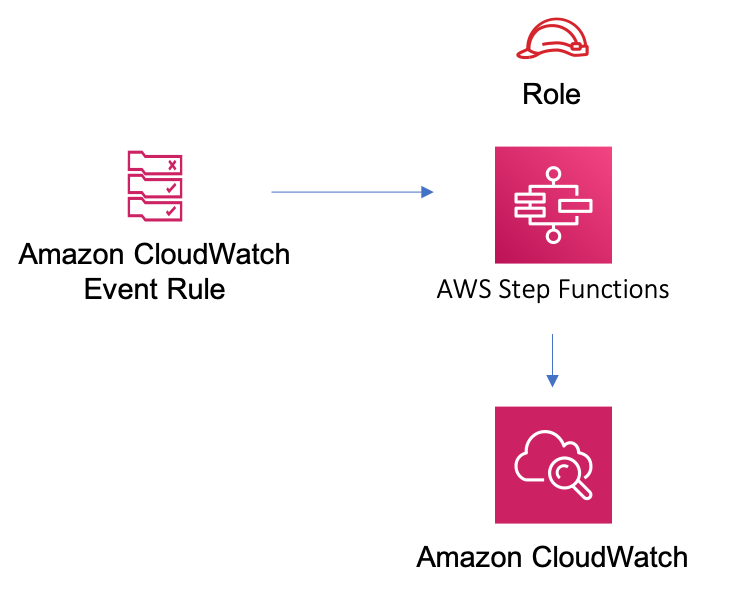
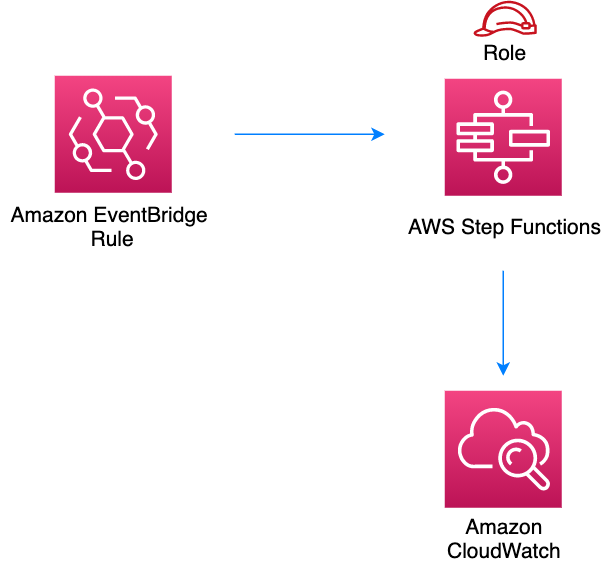
Deleted dependency lines and updated architecture diagram

diff --git a/source/patterns/@aws-solutions-constructs/aws-eventbridge-kinesisfirehose-s3/README.md b/source/patterns/@aws-solutions-constructs/aws-eventbridge-kinesisfirehose-s3/README.md
@@ -22,7 +22,7 @@
 |![Typescript Logo](https://docs.aws.amazon.com/cdk/api/latest/img/typescript32.png) Typescript|`@aws-solutions-constructs/aws-eventbridge-kinesisfirehose-s3`|
 |![Java Logo](https://docs.aws.amazon.com/cdk/api/latest/img/java32.png) Java|`software.amazon.awsconstructs.services.eventbridgekinesisfirehoses3`|
 
-This AWS Solutions Construct implements an Amazon CloudWatch Events rule to send data to an Amazon Kinesis Data Firehose delivery stream connected to an Amazon S3 bucket.
+This AWS Solutions Construct implements an Amazon EventBridge Rule to send data to an Amazon Kinesis Data Firehose delivery stream connected to an Amazon S3 bucket.
 
 Here is a minimal deployable pattern definition in Typescript:
 
@@ -31,9 +31,9 @@ import * as cdk from '@aws-cdk/core';
 import { EventbridgeToKinesisFirehoseToS3, EventbridgeToKinesisFirehoseToS3Props } from '@aws-solutions-constructs/aws-eventbridge-kinesisfirehose-s3';
 
 const EventbridgeToKinesisFirehoseToS3Props: EventbridgeToKinesisFirehoseToS3Props = {
-    eventRuleProps: {
-    schedule: events.Schedule.rate(cdk.Duration.minutes(5))
-    }
+  eventRuleProps: {
+  schedule: events.Schedule.rate(cdk.Duration.minutes(5))
+  }
 };
 
 new EventbridgeToKinesisFirehoseToS3(this, 'test-eventbridge-firehose-s3', EventbridgeToKinesisFirehoseToS3Props);
@@ -78,8 +78,8 @@ _Parameters_
 
 Out of the box implementation of the Construct without any override will set the following defaults:
 
-### Amazon CloudWatch Events Rule
-* Configure least privilege access IAM role for Events Rule to publish to the Kinesis Firehose Delivery Stream.
+### Amazon EventBridge Rule
+* Configure least privilege access IAM role for Amazon EventBridge Rule to publish to the Kinesis Firehose Delivery Stream.
 
 ### Amazon Kinesis Firehose
 * Enable CloudWatch logging for Kinesis Firehose

diff --git a/source/patterns/@aws-solutions-constructs/aws-eventbridge-stepfunctions/README.md b/source/patterns/@aws-solutions-constructs/aws-eventbridge-stepfunctions/README.md
@@ -77,8 +77,8 @@ _Parameters_
 
 Out of the box implementation of the Construct without any override will set the following defaults:
 
-### Amazon CloudWatch Events Rule
-* Grant least privilege permissions to CloudWatch Events to trigger the Lambda Function
+### Amazon EventBridge Rule
+* Grant least privilege permissions to Amazon EventBridge Rule to trigger the Lambda Function
 
 ### AWS Step Function
 * Enable CloudWatch logging for API Gateway
